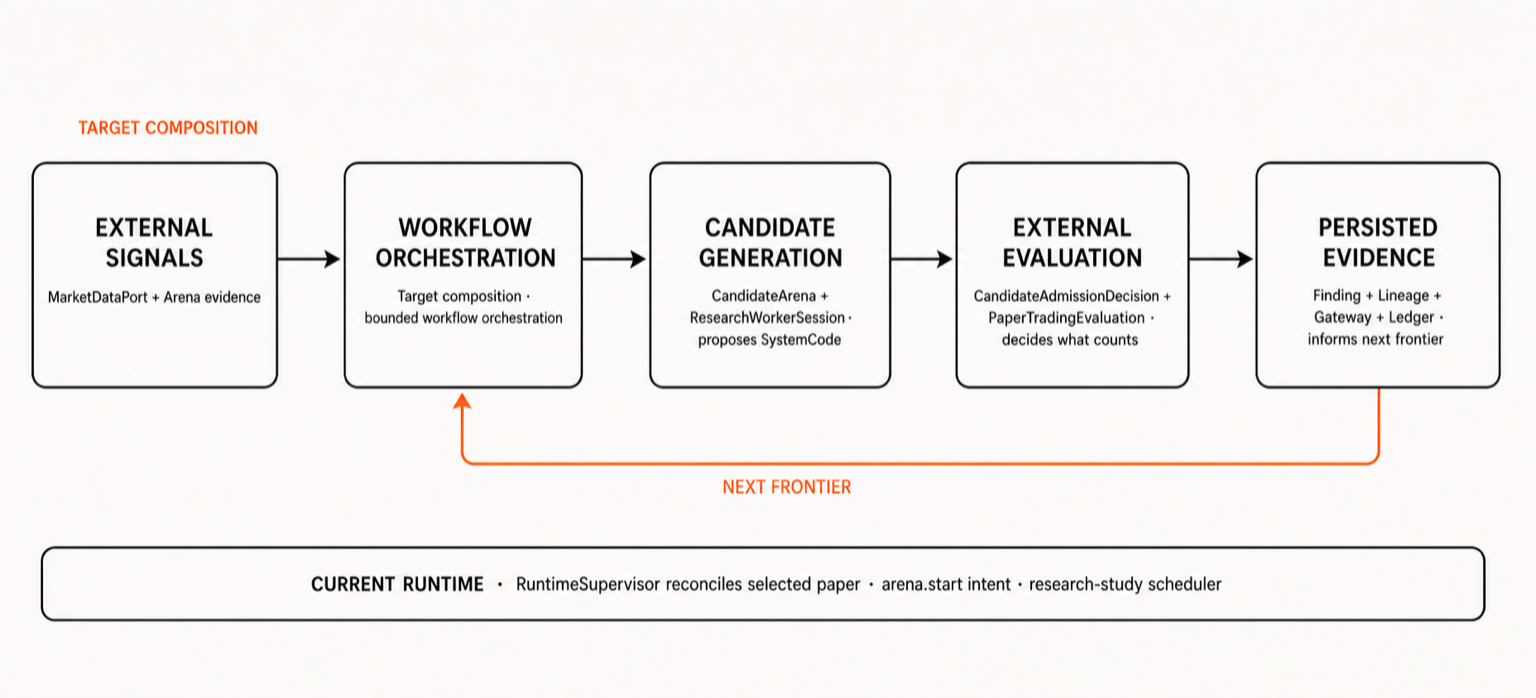
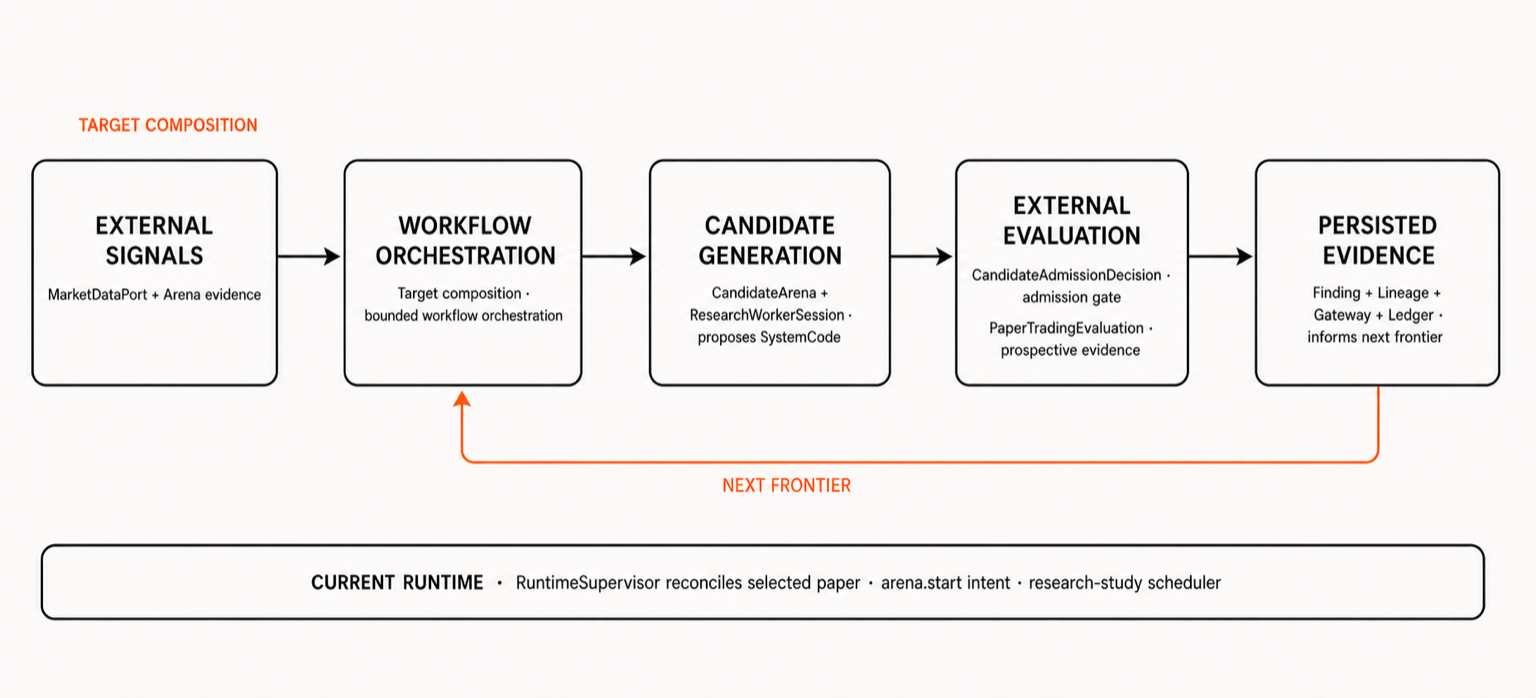
docs: separate admission from paper evidence

diff --git a/docs/superpowers/plans/2026-07-29-readme-loop-illustrations.md b/docs/superpowers/plans/2026-07-29-readme-loop-illustrations.md
@@ -50,8 +50,8 @@ Scene/backdrop: warm mist off-white #F8F7F5 with faint paper-like support shapes
 Style/medium: restrained editorial technical diagram, precise black ink #17120F, Inter-like sans-serif, one controlled orange #F37021. Rounded rectangles with generous corner radius; no circles.
 Composition: five evenly spaced rounded-rectangle groups from left to right on one horizontal route. Draw one orange return path with rounded corners from the final group back to WORKFLOW ORCHESTRATION.
 Large text verbatim: "EXTERNAL SIGNALS", "WORKFLOW ORCHESTRATION", "CANDIDATE GENERATION", "EXTERNAL EVALUATION", "PERSISTED EVIDENCE".
-Small text verbatim: "MarketDataPort + Arena evidence", "Target composition · bounded workflow orchestration", "CandidateArena + ResearchWorkerSession · proposes SystemCode", "CandidateAdmissionDecision + PaperTradingEvaluation · decides what counts", "Finding + Lineage + Gateway + Ledger · informs the next frontier", "CURRENT RUNTIME · RuntimeSupervisor reconciles selected paper · arena.start intent · research-study scheduler".
-Authority rule: the only path into PaperTradingEvaluation passes through CandidateAdmissionDecision. Target workflow orchestration chooses bounded work; external evaluation still decides what counts. The current RuntimeSupervisor is separately labeled with its three fixed lanes.
+Small text verbatim: "MarketDataPort + Arena evidence", "Target composition · bounded workflow orchestration", "CandidateArena + ResearchWorkerSession · proposes SystemCode", "CandidateAdmissionDecision · admission gate", "PaperTradingEvaluation · prospective evidence", "Finding + Lineage + Gateway + Ledger · informs the next frontier", "CURRENT RUNTIME · RuntimeSupervisor reconciles selected paper · arena.start intent · research-study scheduler".
+Authority rule: the only path into PaperTradingEvaluation passes through CandidateAdmissionDecision. CandidateAdmissionDecision is the admission gate; PaperTradingEvaluation is prospective evidence consumed by separate qualification, comparison, and promotion decisions. Target workflow orchestration chooses bounded work. The current RuntimeSupervisor is separately labeled with its three fixed lanes.
 Constraints: one primary idea, large readable spacing, no node crowding, no bypass connection, orange only for the operations return and admission gate.
 Avoid: headline, slogan, hands, people, robots, candlestick charts, currency, gradient, dark background, UI cards, 3D, shadow, logo, watermark.
 ```

diff --git a/docs/superpowers/specs/2026-07-29-readme-loop-illustrations-design.md b/docs/superpowers/specs/2026-07-29-readme-loop-illustrations-design.md
@@ -47,7 +47,8 @@ Small Ouroboros mappings:
 EXTERNAL SIGNALS        MarketDataPort + Arena evidence
 WORKFLOW ORCHESTRATION  target composition; bounded workflow orchestration
 CANDIDATE GENERATION    CandidateArena + ResearchWorkerSession; proposes SystemCode
-EXTERNAL EVALUATION     CandidateAdmissionDecision + PaperTradingEvaluation; decides what counts
+EXTERNAL EVALUATION     CandidateAdmissionDecision; admission gate
+                        PaperTradingEvaluation; prospective evidence
 PERSISTED EVIDENCE      Finding + Lineage + Gateway + Ledger; informs the next frontier
 ```
 
@@ -55,7 +56,7 @@ The image explains the target composition, not every persisted record or an alre
 generic scheduling policy. It must make four facts visible:
 
 1. Target workflow orchestration can observe market and Arena evidence.
-2. Candidate generation and external evaluation remain separate authority boundaries.
+2. Candidate generation, admission authority, and prospective paper evidence remain distinct.
 3. Only externally admitted work reaches paper evaluation, and its evidence informs the next frontier.
 4. The current `RuntimeSupervisor` reconciles three fixed persisted lanes: selected paper,
    `arena.start` intent, and research-study scheduling.

diff --git a/README.md b/README.md
@@ -125,7 +125,8 @@ implemented runtime policy. Today `RuntimeSupervisor` reconciles three fixed per
 selected paper lifecycle, `arena.start` intent, and research-study scheduling. It does not inspect
 `MarketDataPort` signals to choose among generic Agentic, Evaluation, or Research workflows.
 `CandidateArena` and `ResearchWorkerSession` generate frozen `SystemCode` candidates.
-`CandidateAdmissionDecision` and `PaperTradingEvaluation` remain external decision boundaries, and
+`CandidateAdmissionDecision` is the external admission gate; `PaperTradingEvaluation` accumulates
+prospective evidence that separate qualification, comparison, and promotion decisions can consume.
 `Finding`, `Lineage`, `Gateway`, and `Ledger` evidence inform the next frontier. No generated path
 bypasses admission or grants itself paper rank, private exchange access, or live-trading authority.
 
